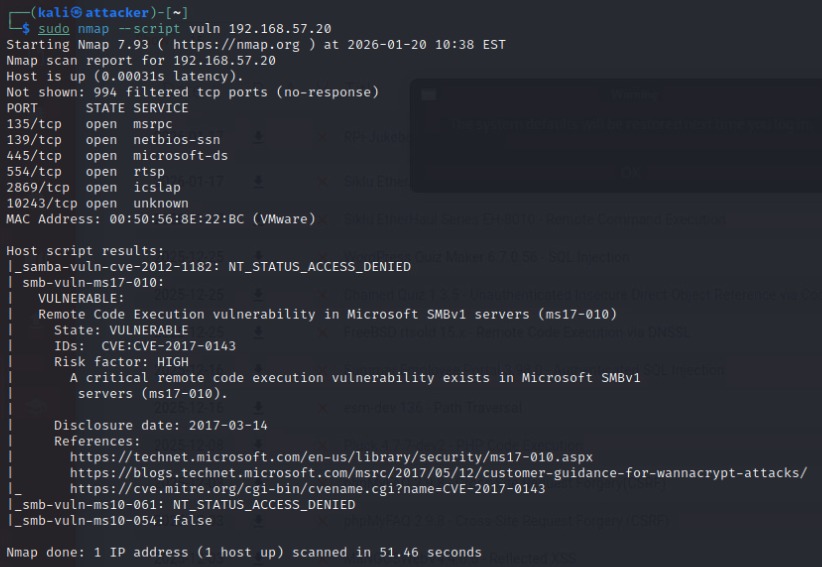
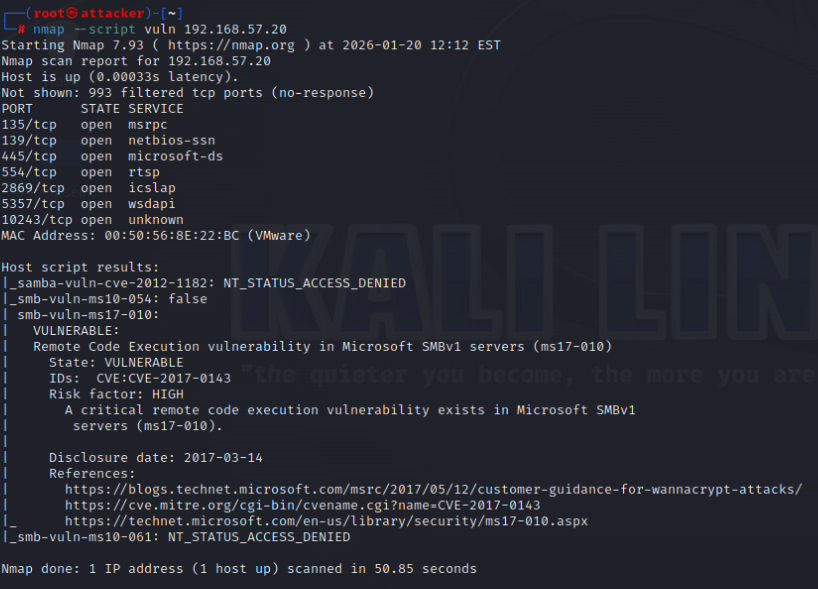
Network-discovery: Add hosts, service, and vulnerability scan.

Changed region(s): [[0.0, 0.0, 0.978, 0.9295], [0.0, 0.9594, 0.5807, 0.9894]]

diff --git a/network-discovery/commands.md b/network-discovery/commands.md
@@ -69,20 +69,60 @@ Active hosts discovery:
 ```
 sudo nmap -sn 192.168.57.20/24 -oA host_active
 
-nmap -sn -PS22,80,443 192.168.54.20/24 -oA hosts_tcp_ping
+sudo nmap -sn -PS22,80,443 192.168.57.20/24 -oA hosts_tcp_ping
 
-nmap -sn -PR 192.168.54.20/24 -oA hosts_arp
+sudo nmap -sn -PR 192.168.57.20/24 -oA hosts_arp
 ```
+![hosts-discovery](hosts-discovery.png)
 
-Services
-```
-nmap -sV -sC -p 22,80,135,139,443,445,554,2869,3306,3389,10243 192.168.54.20 -oA service_scan
-```
 
-Running basic vulnerability scripts:
+Services:
+```
+nmap -sV -sC -Pn -p 22,80,135,139,443,445,554,2869,3306,3389,10243 192.168.57.20 -oA service_scan
+```
+![service-scan](service-scan.png)
+
+
+Vulnerability scripts:
 ```
 nmap --script vuln 192.168.57.20
+
+nmap --script vuln 192.168.57.20 -oA vulnerability_scan
+
+nmap --script=smb-vuln* 192.168.57.20 -p 445 -oA smb_vuln_scan
 ```
+
 ![nmap-script-vuln](nmap-script-vuln.png)
+
+![vulnerability-scan](vulnerability-scan.png)
+
+![smb-vuln-scan](smb-vuln-scan.png)
+
+
+```
+sudo nmap -sS -sV -sC -O -p- -T4 --min-rate 1000 \
+    --script="vuln and safe" \
+    -oN full_audit.txt -oX full_audit.xml -oG full_audit.gnmap \
+    192.168.57.20
+```
+
+![full-audit](full-audit.png)
+
+
+```
+python3 -c "
+import xml.etree.ElementTree as ET
+tree = ET.parse('full_audit.xml')
+root = tree.getroot()
+for host in root.findall('host'):
+    ip = host.find('address').get('addr')
+    print(f'Host: {ip}')
+    for port in host.findall('.//port'):
+        if port.find('state').get('state') == 'open':
+            print(f'  Puerto {port.get("portid")}/{port.get("protocol")}')
+"
+```
+![python-script](python-script.png)
+
 
 
